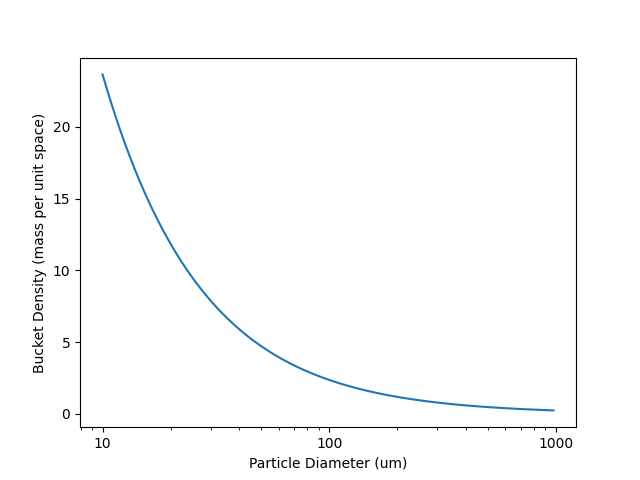
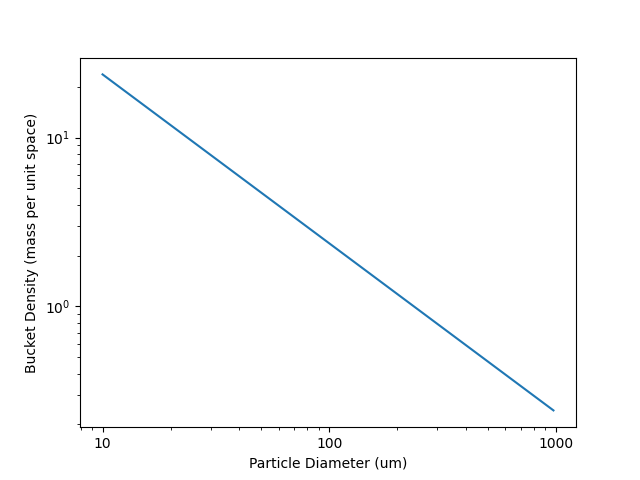
changed bucket plots to loglog

diff --git a/saltation.py b/saltation.py
@@ -12,8 +12,11 @@
 import numpy as np
 import matplotlib.pyplot as plt
 import matplotlib.ticker as ticker
+from matplotlib.figure import Figure
+from matplotlib.axes import Axes
 from scipy.optimize import fsolve
 from scipy.interpolate import RegularGridInterpolator
+from typing import Tuple
 
 g = 375                                 # cm / s^2
 rho_p_over_rho = 240000
@@ -119,19 +122,25 @@ def surface_dust_supply(diameters: np.ndarray) -> np.ndarray:
     return supply_per_D[:-1]
 
 def plot_bucket_depletion(diameters, bucket_times):
-    return plot_logx(diameters[:-1] * 1E4, bucket_times, "Particle Diameter (um)", "Time to Deplete (s)")
+    fig, ax = plot_loglog(diameters[:-1] * 1E4, bucket_times, "Particle Diameter (um)", "Time to Deplete (s)")
+    min_diameter_index = np.argmax(np.isfinite(bucket_times))
+    if min_diameter_index != 0:
+        min_diameter = diameters[min_diameter_index] * 1E4
+        ax.loglog([min_diameter, min_diameter], ax.get_ylim(), '--k')
+    return fig
 
 def plot_density_distribution(diameters, densities):
-    return plot_logx(diameters[:-1] * 1E4, densities, "Particle Diameter (um)", "Bucket Density (mass per unit space)")
+    fig, ax = plot_loglog(diameters[:-1] * 1E4, densities, "Particle Diameter (um)", "Bucket Density (mass per unit space)")
+    return fig
 
-def plot_logx(x, y, xlabel, ylabel):
+def plot_loglog(x, y, xlabel, ylabel) -> Tuple[Figure, Axes]:
     fig, ax = plt.subplots()
-    ax.plot(x, y)
-    ax.set_xscale('log')
+    ax.loglog(x, y)
+    #ax.set_xscale('log')
     ax.xaxis.set_major_formatter(ticker.FuncFormatter(lambda y, _: '{:g}'.format(y)))
     ax.set_xlabel(xlabel)
     ax.set_ylabel(ylabel)
-    return fig
+    return fig, ax
 
 ################################ Script ################################
 
